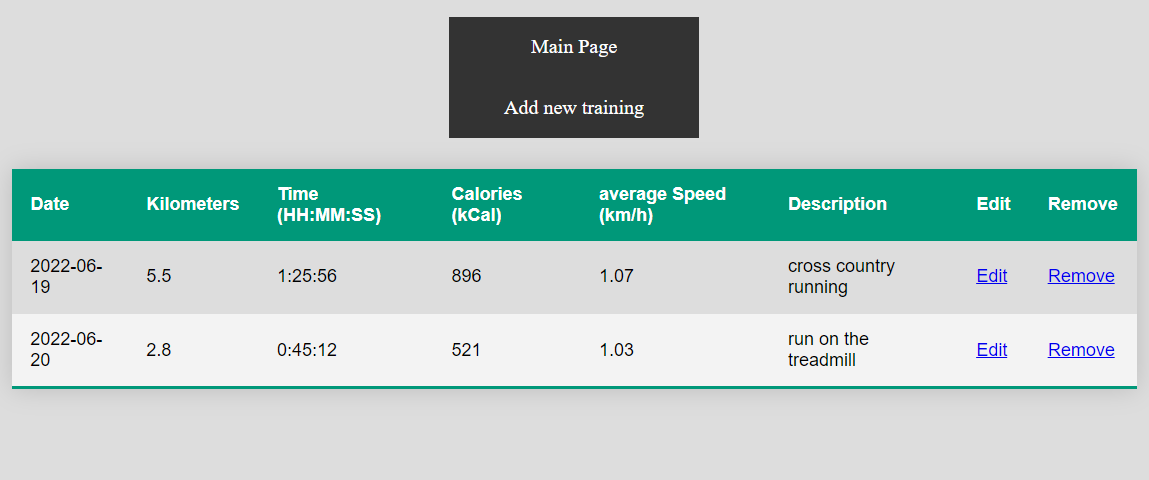
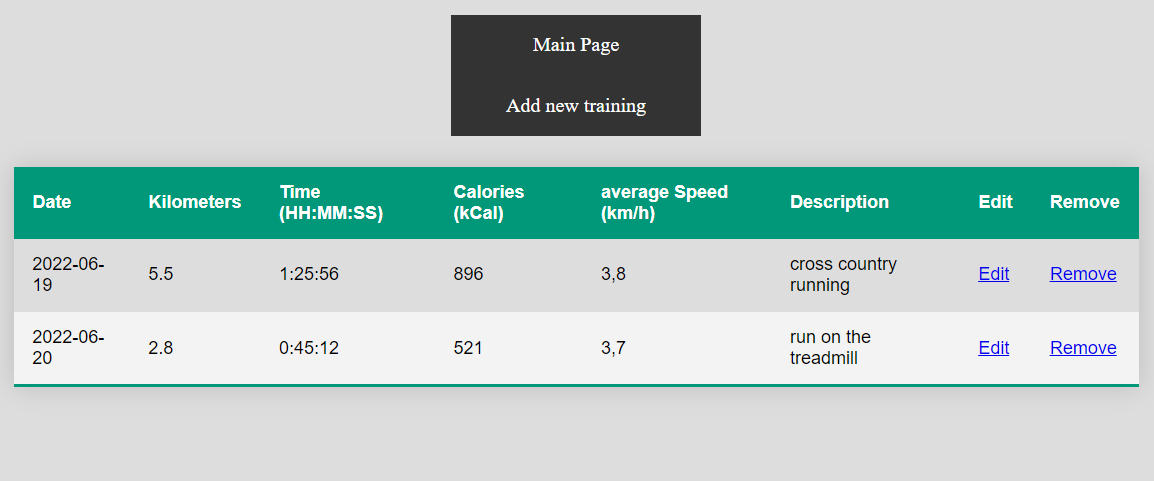
edit calculate average speed

diff --git a/src/main/java/pl/pp/spring/trainingrecorderapp/model/Training.java b/src/main/java/pl/pp/spring/trainingrecorderapp/model/Training.java
@@ -3,11 +3,14 @@ package pl.pp.spring.trainingrecorderapp.model;
 import org.springframework.format.annotation.DateTimeFormat;
 
 import javax.persistence.*;
+import java.text.DecimalFormat;
 import java.time.LocalDate;
 
 @Entity
 @Table(name = "trainings")
 public class Training {
+
+    private static final DecimalFormat df = new DecimalFormat("0.0");
 
     @Id
     @GeneratedValue(strategy = GenerationType.IDENTITY)
@@ -133,11 +136,12 @@ public class Training {
     }
 
     public String getAverageSpeedTime() {
-        int allSeconds = hours * 3600 + minutes * 60 + seconds;
-        double allMeters = amountKilometers * 1000;
-        double averageSpeed = (Math.round(allMeters / allSeconds * 100));
+        double allSeconds = hours * 3600 + minutes * 60 + seconds;
+        double time = allSeconds / 3600;
+        double distance = amountKilometers;
+        double averageSpeed = distance / time;
 
-        return averageSpeed / 100 + "";
+        return df.format(averageSpeed);
     }
 
 }

diff --git a/readme.md b/readme.md
@@ -1,4 +1,4 @@
-# Training Recorder App
+# News Articles App
 
 ## General Information
 The small app, which allows users to record their running trainings and review them.
